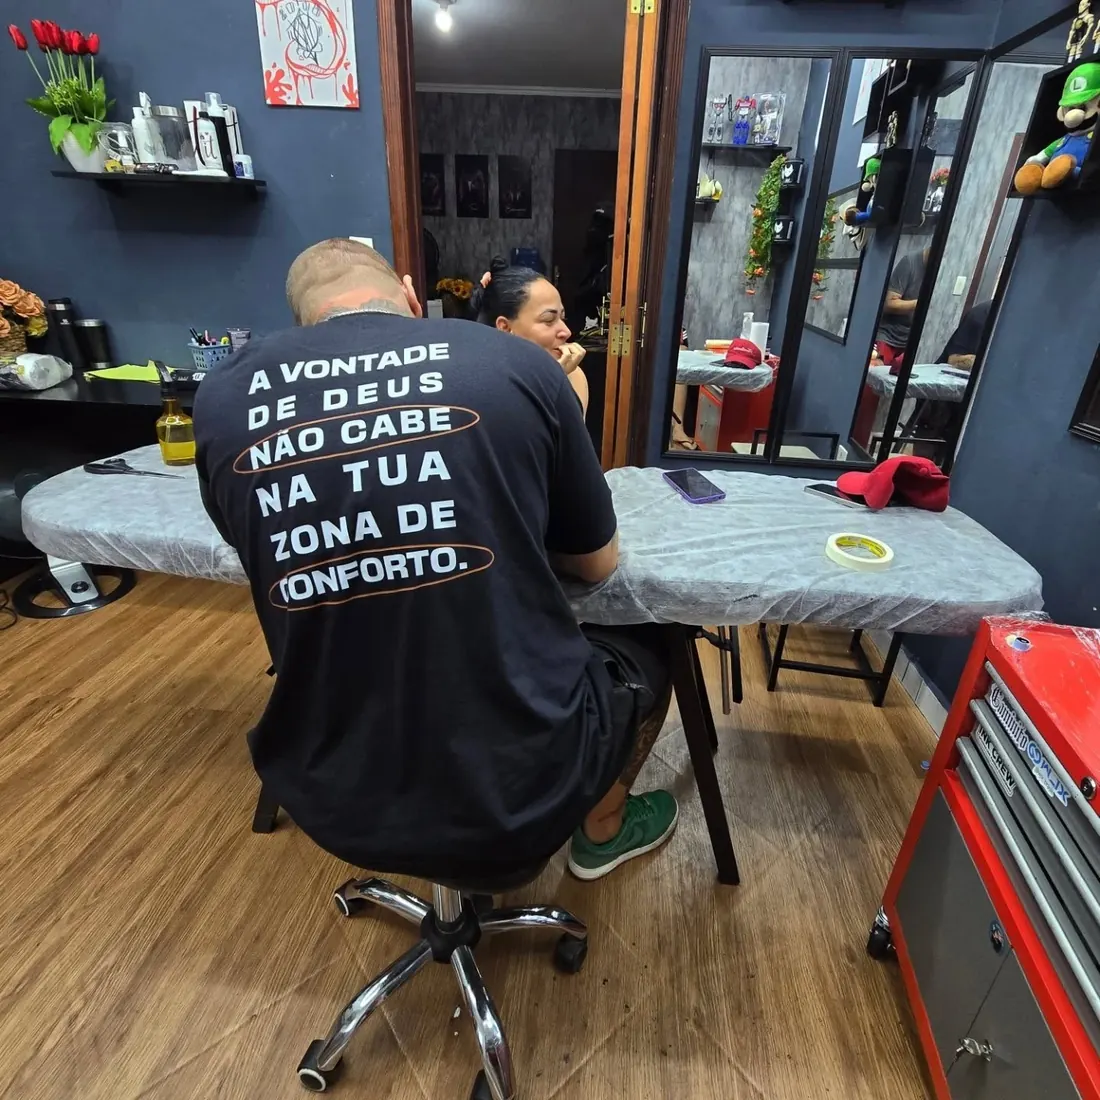
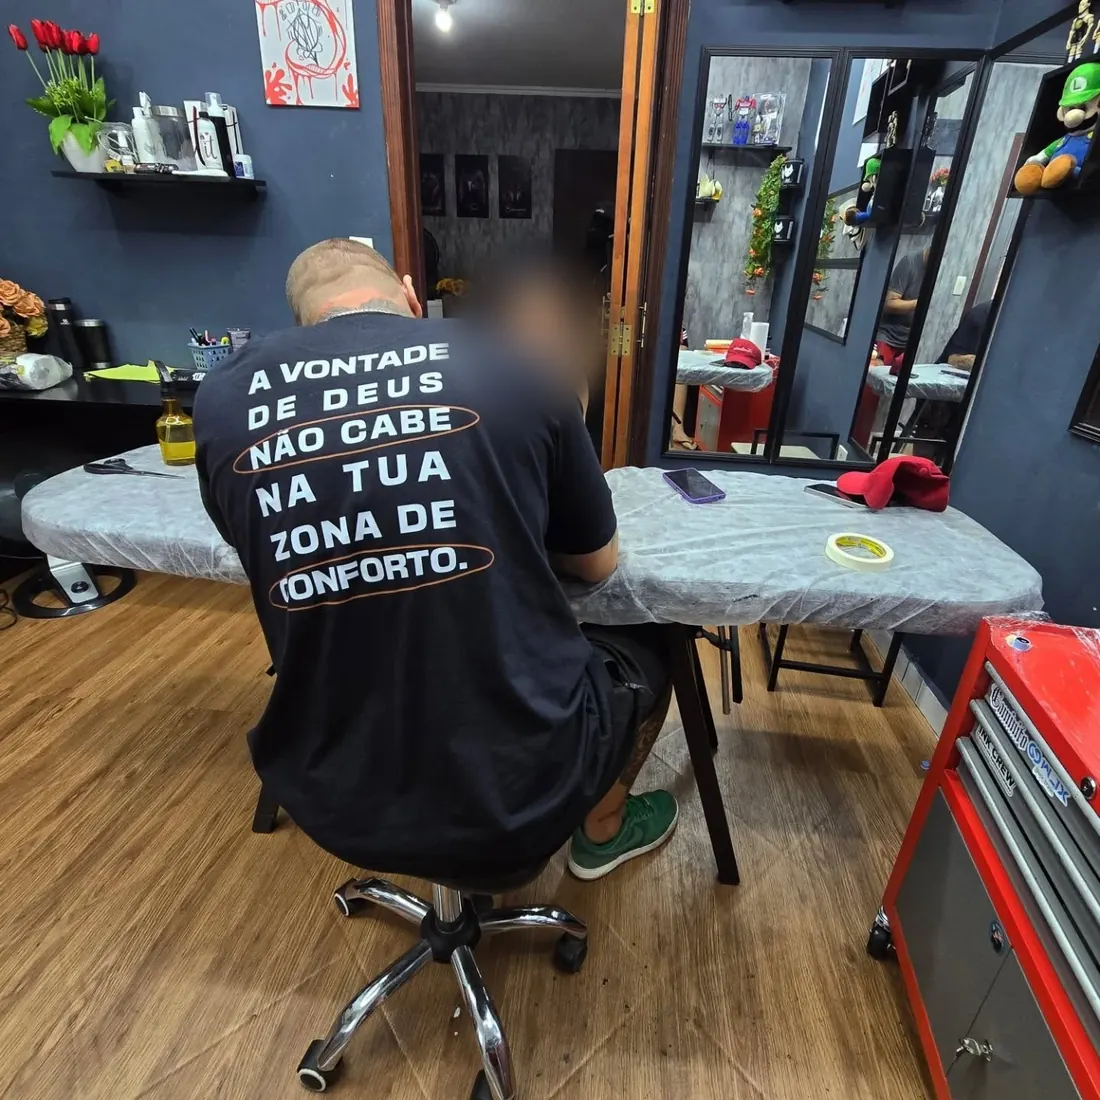
Add five gallery photos cropped without faces and blur client in studio photo
Claude-Session: https://claude.ai/code/session_013zgaEfFT2bhNEtcqz9r3AZ

Changed region(s): [[0.4018, 0.2164, 0.5564, 0.3709]]

diff --git a/content/site.ts b/content/site.ts
@@ -90,9 +90,9 @@ export const about = {
 /** Foto do estúdio, exibida na seção de localização. Vazio = não aparece. */
 export const studioPhoto = {
   src: "/estudio/atendimento.webp",
-  alt: "Interior do estúdio: tatuador de costas, sentado junto à maca, atendendo uma cliente",
-  /** CONFIRMAR: autorização da cliente que aparece na foto. */
-  pending: "autorização da cliente que aparece nesta foto.",
+  alt: "Interior do estúdio: tatuador de costas, sentado junto à maca, atendendo uma cliente com o rosto desfocado",
+  /** Aviso opcional exibido no modo demonstração. O rosto da cliente foi desfocado. */
+  pending: "",
 };
 
 /**
@@ -107,8 +107,23 @@ export type Work = { src: string; alt: string; ratio: "4/5" | "1/1" | "3/4" | "4
 
 export const works: Work[] = [
   {
+    src: "/trabalhos/fechamento-peito-abdomen.webp",
+    alt: "Fechamento de peito e abdômen em preto e cinza, com rostos de anjos, mãos em oração, Cristo com coroa de espinhos e uma figura feminina rezando",
+    ratio: "3/4",
+  },
+  {
+    src: "/trabalhos/lettering-peito.webp",
+    alt: "Lettering em preto no peito com a frase “Seja feita Tua vontade”",
+    ratio: "1/1",
+  },
+  {
     src: "/trabalhos/pernas-linha-vermelha.webp",
     alt: "Duas tatuagens em linha vermelha nas pernas: um rosto feminino com chifres e correntes, e uma caveira de animal",
+    ratio: "3/4",
+  },
+  {
+    src: "/trabalhos/polvo-braco.webp",
+    alt: "Polvo em traço preto com pontilhismo na parte interna do braço",
     ratio: "3/4",
   },
   {
@@ -119,6 +134,16 @@ export const works: Work[] = [
   {
     src: "/trabalhos/adaga-perna.webp",
     alt: "Tatuagem em preto de uma adaga ornamentada, da coxa até a panturrilha, na parte de trás da perna",
+    ratio: "3/4",
+  },
+  {
+    src: "/trabalhos/tubarao-coxa.webp",
+    alt: "Tubarão atravessado por um machado, entre ondas, em traço preto na coxa",
+    ratio: "4/5",
+  },
+  {
+    src: "/trabalhos/lirios-quadril.webp",
+    alt: "Ramo de lírios em traço fino, do quadril até a coxa",
     ratio: "3/4",
   },
 ];
